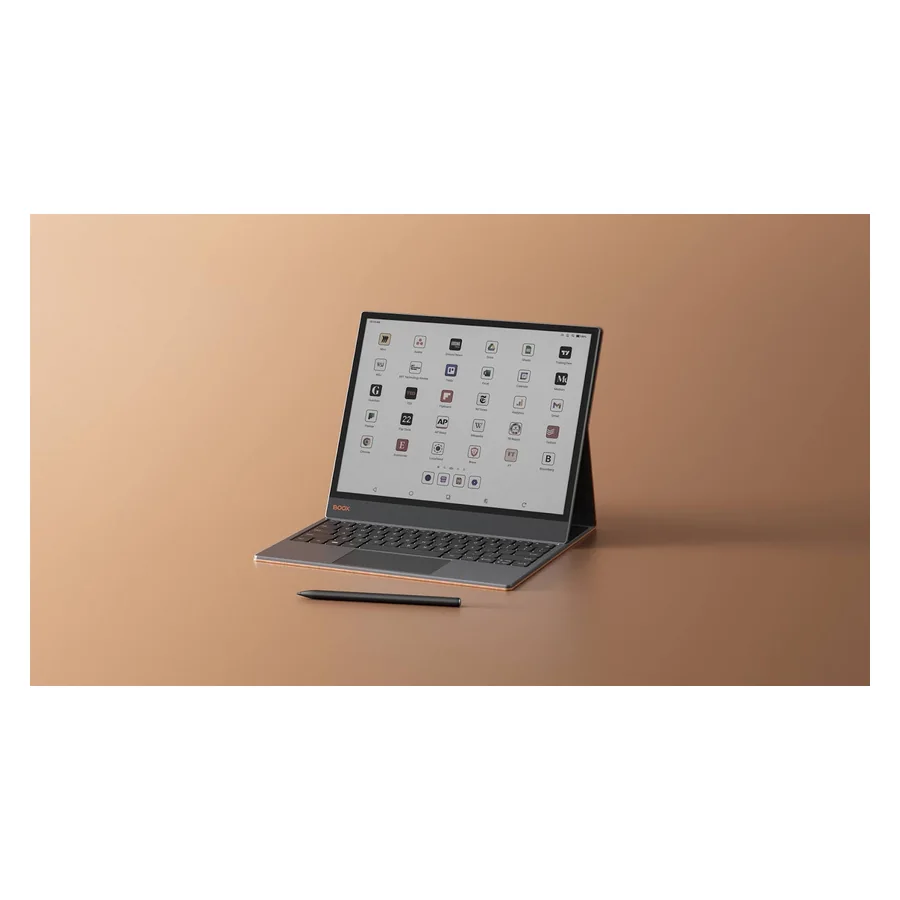
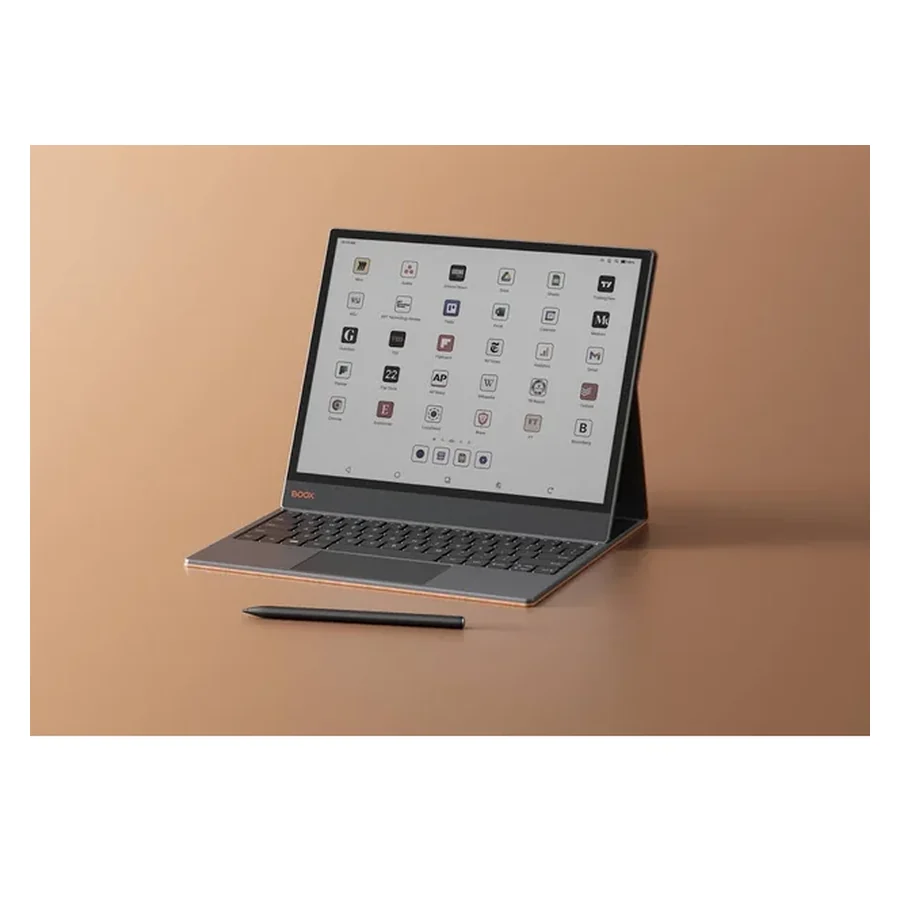
Give product photos prominent responsive space in shop and recommendation modules

Changed region(s): [[0.0311, 0.1556, 0.9644, 0.7156], [0.0311, 0.7467, 0.9644, 0.84]]

diff --git a/style.css b/style.css
@@ -1239,7 +1239,7 @@ html:has(link[rel="canonical"][href*="/marques/"]) .product-summary-header {
 .shop-grid { display: grid; grid-template-columns: repeat(2, minmax(0, 1fr)); gap: 20px; }
 .shop-product {
   display: grid;
-  grid-template-columns: 156px minmax(0, 1fr);
+  grid-template-columns: minmax(0, 1fr);
   min-width: 0;
   overflow: hidden;
   background: var(--color-white);
@@ -1252,14 +1252,14 @@ html:has(link[rel="canonical"][href*="/marques/"]) .product-summary-header {
   position: relative;
   display: grid;
   place-items: center;
-  min-height: 250px;
+  min-height: 280px;
   padding: 20px;
   overflow: hidden;
-  background: #e6e6df;
-  border-right: 1px solid var(--color-border);
+  background: var(--color-white);
+  border-bottom: 1px solid var(--color-border);
 }
 .shop-product__visual--missing { color: var(--color-text-muted); font-size: .8rem; text-align: center; }
-.shop-product__visual--image img { width: 100%; max-height: 210px; object-fit: contain; }
+.shop-product__visual--image img { width: 100%; max-width: 300px; height: 260px; object-fit: contain; }
 .shop-product__device {
   position: relative;
   display: block;
@@ -1335,8 +1335,8 @@ html:has(link[rel="canonical"][href*="/marques/"]) .product-summary-header {
   .shop-hero { padding: 42px 0; }
   .shop-hero__inner { grid-template-columns: 1fr; gap: 30px; }
   .shop-filters { grid-template-columns: 1fr; }
-  .shop-product { grid-template-columns: 112px minmax(0, 1fr); }
-  .shop-product__visual { min-height: 220px; padding: 12px; }
+  .shop-product { grid-template-columns: minmax(0, 1fr); }
+  .shop-product__visual { min-height: 260px; padding: 16px; }
   .shop-product__device { width: 72px; }
   .shop-product__content { padding: 18px; }
   .shop-product__spec { grid-template-columns: 1fr; gap: 2px; }
@@ -1346,6 +1346,6 @@ html:has(link[rel="canonical"][href*="/marques/"]) .product-summary-header {
 
 @media (max-width: 480px) {
   .shop-product { grid-template-columns: 1fr; }
-  .shop-product__visual { min-height: 180px; border-right: 0; border-bottom: 1px solid var(--color-border); }
+  .shop-product__visual { min-height: 260px; }
   .shop-product__device { width: 78px; }
 }

diff --git a/assets/product-cards.css b/assets/product-cards.css
@@ -33,7 +33,7 @@
 .product-card__media {
   display: grid;
   place-items: center;
-  min-height: 210px;
+  min-height: 260px;
   padding: 24px;
   background: var(--color-bg-alt);
   border-bottom: 1px solid var(--color-border);
@@ -41,8 +41,8 @@
 
 .product-card__media img {
   width: 100%;
-  max-width: 230px;
-  max-height: 200px;
+  max-width: 280px;
+  height: 240px;
   object-fit: contain;
 }
 
@@ -113,25 +113,27 @@
 }
 
 .product-recommendation-row--with-media {
-  grid-template-columns: 124px minmax(0, 1fr) auto;
-  grid-template-areas: "media content actions";
+  grid-template-columns: 210px minmax(0, 1fr);
+  grid-template-areas: "media content" "media actions";
+  column-gap: 28px;
+  row-gap: 18px;
 }
 
 .product-recommendation-row__media {
   grid-area: media;
   display: grid;
   place-items: center;
-  align-self: stretch;
-  min-height: 118px;
-  padding: 10px;
-  background: var(--color-bg-alt);
+  align-self: center;
+  min-height: 220px;
+  padding: 0;
+  background: var(--color-white);
   border-radius: var(--radius-sm);
 }
 
 .product-recommendation-row__media img {
   width: 100%;
-  max-width: 112px;
-  max-height: 112px;
+  max-width: 240px;
+  height: 220px;
   object-fit: contain;
 }
 
@@ -184,6 +186,10 @@
   align-items: flex-end;
   gap: 7px;
   min-width: 132px;
+}
+
+.product-recommendation-row--with-media .product-recommendation-row__actions {
+  align-items: flex-start;
 }
 
 .product-card__actions {
@@ -247,10 +253,10 @@
   }
 
   .product-recommendation-row--with-media {
-    grid-template-columns: 104px minmax(0, 1fr);
+    grid-template-columns: 190px minmax(0, 1fr);
     grid-template-areas:
       "media content"
-      ". actions";
+      "media actions";
   }
 
   .product-recommendation-row__actions {
@@ -290,8 +296,8 @@
   }
 
   .product-recommendation-row__media {
-    width: 116px;
-    min-height: 104px;
+    width: 100%;
+    min-height: 240px;
   }
 
   .product-recommendation-row__specs {
